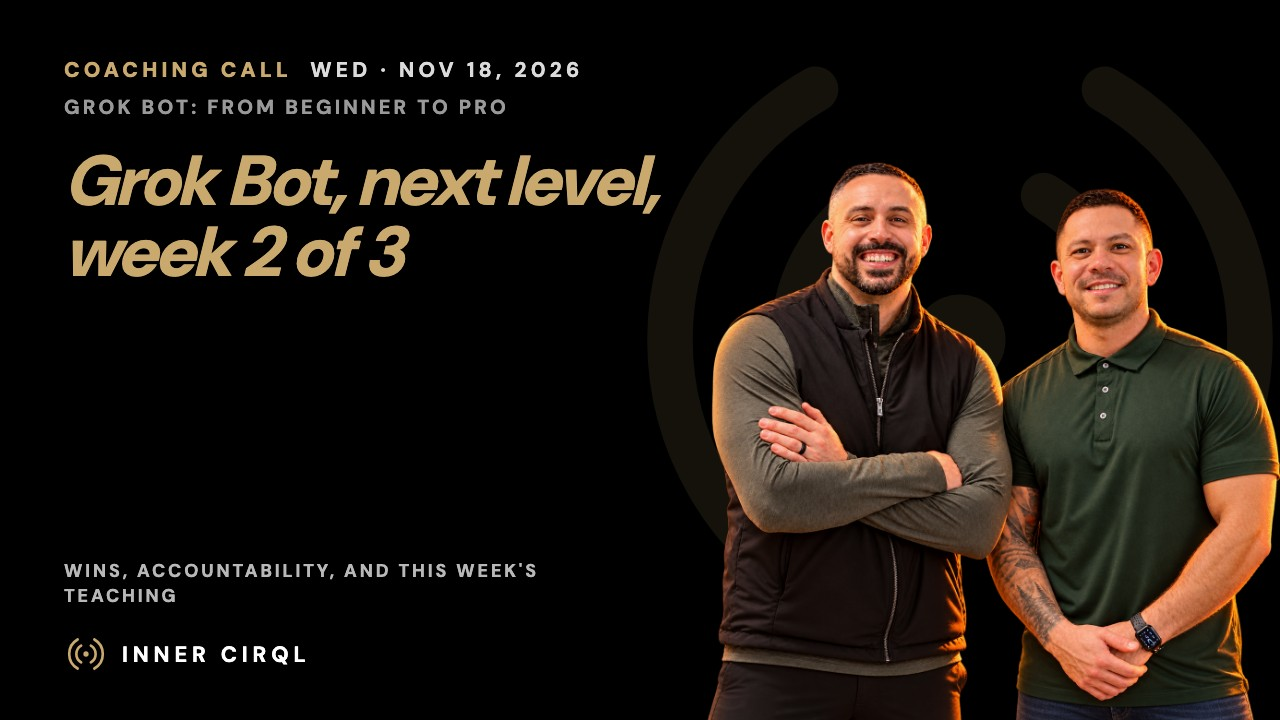
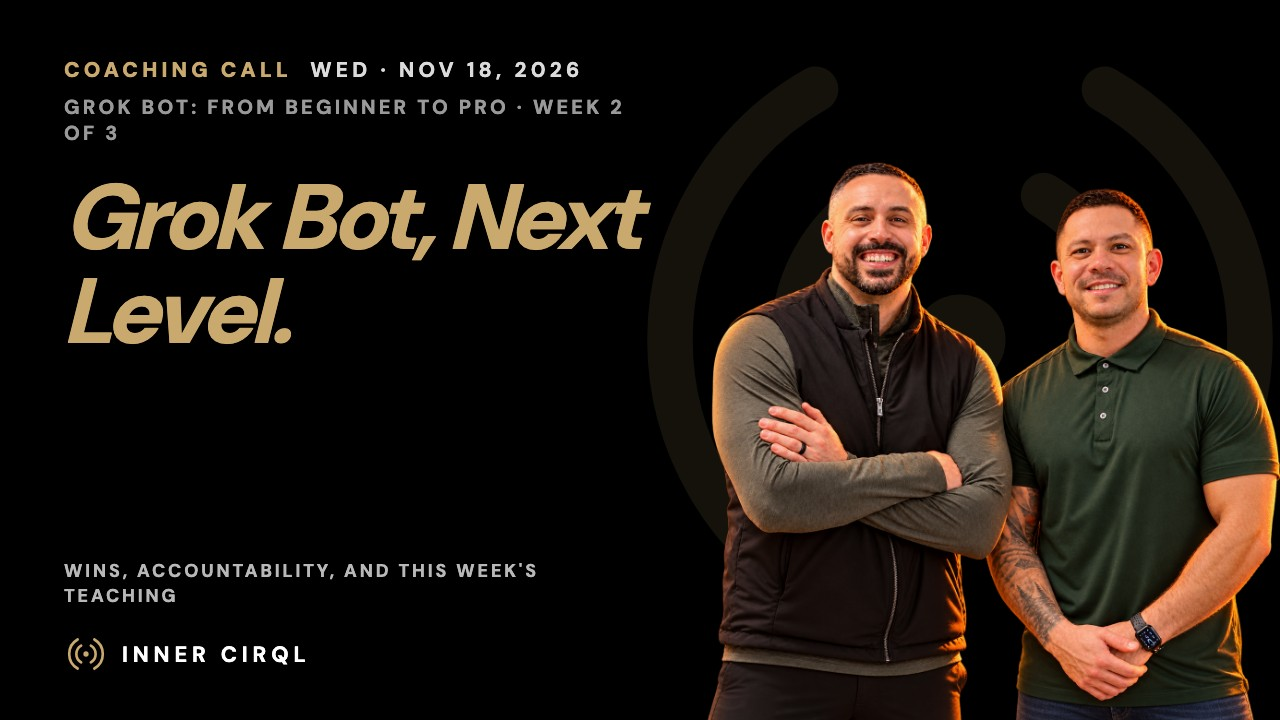
Training: retitle Nov 18 coaching call (Grok Bot: From Beginner to Pro · Grok Bot, next level, week 2 of 3) + thumbnail

Changed region(s): [[0.0312, 0.1528, 0.5312, 0.4889], [0.4062, 0.1222, 0.4688, 0.1833]]

diff --git a/training/index.html b/training/index.html
@@ -94,6 +94,26 @@ window.LIBRARY = {
   ],
   "items": [
     {
+      "id": "v-2026-11-18",
+      "date": "2026-11-18",
+      "dateLabel": "November 18, 2026",
+      "series": "grok-bot-from-beginner-to-pro",
+      "week": 2,
+      "name": "Grok Bot, next level, week 2 of 3",
+      "title": "Grok Bot: From Beginner to Pro · Grok Bot, next level, week 2 of 3",
+      "headline": [
+        "Grok Bot,",
+        "Next Level."
+      ],
+      "sub": "Grok Bot: From Beginner to Pro · Week 2 of 3",
+      "desc": "Grok Bot: From Beginner to Pro: Grok Bot, next level, week 2 of 3. Wins, accountability, and the teaching segment, edited replay.",
+      "href": "https://coach.theinnercirql.com/2026-11-18/",
+      "pdf": null,
+      "slides": null,
+      "embed": "https://www.youtube.com/embed/sRHgkFaN35s?rel=0&modestbranding=1",
+      "thumb": "/assets/thumbs/nov-18-call.jpg?v=1"
+    },
+    {
       "id": "v-2026-11-11",
       "date": "2026-11-11",
       "dateLabel": "November 11, 2026",
@@ -532,25 +552,6 @@ window.LIBRARY = {
       "slides": null,
       "embed": "https://www.youtube.com/embed/eMiOeAI9R4w?rel=0&modestbranding=1",
       "thumb": "/assets/thumbs/may-27-call.jpg?v=1"
-    },
-    {
-      "id": "v-2026-11-18",
-      "date": "2026-11-18",
-      "dateLabel": "November 18, 2026",
-      "series": "grok-bot-from-beginner-to-pro",
-      "week": 2,
-      "name": "Grok Bot, next level, week 2 of 3",
-      "title": "Grok Bot: From Beginner to Pro · Grok Bot, next level, week 2 of 3",
-      "headline": [
-        "Grok Bot, next level, week 2 of 3"
-      ],
-      "sub": "Grok Bot: From Beginner to Pro",
-      "desc": "Grok Bot: From Beginner to Pro: Grok Bot, next level, week 2 of 3. Wins, accountability, and the teaching segment, edited replay.",
-      "href": "https://coach.theinnercirql.com/2026-11-18/",
-      "pdf": null,
-      "slides": null,
-      "embed": "https://www.youtube.com/embed/sRHgkFaN35s?rel=0&modestbranding=1",
-      "thumb": "/assets/thumbs/nov-18-call.jpg?v=1"
     },
     {
       "id": "t-become-a-listing-magnet",
